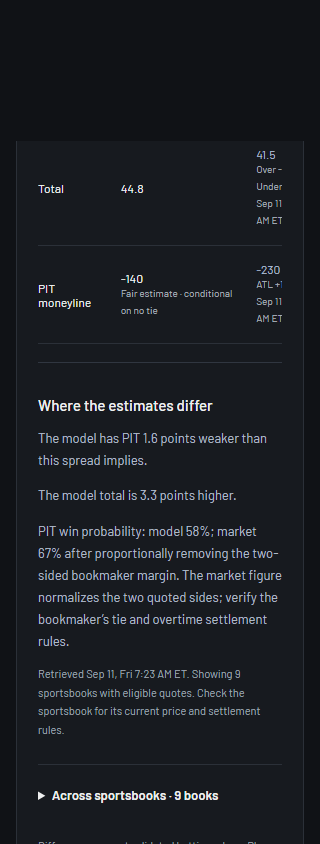
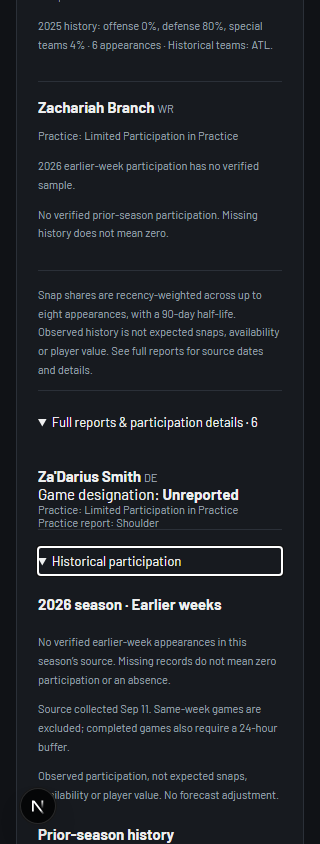
Summarize reported personnel designations and verified participation

Changed region(s): [[0.0938, 0.1232, 0.9062, 1.0], [0.125, 0.0, 0.8438, 0.0616], [0.8125, 0.8626, 0.8438, 0.8934]]

diff --git a/src/components/personnel-briefing.tsx b/src/components/personnel-briefing.tsx
@@ -1,0 +1,44 @@
+import React from 'react';
+import historical from '../../data/player-usage.json';
+import current from '../../data/season-participation.json';
+import { groupPersonnel } from '../lib/personnel-briefing';
+import { usageForPlayer, hasUsageIdentityConflict } from '../lib/player-usage';
+import { seasonParticipation } from '../lib/season-participation';
+import type { PersonnelSnapshot, PlayerReport } from '../lib/personnel';
+import { pct, date } from '../lib/teams';
+
+function ParticipationFact({snapshot, player, sharedEmpty}: {snapshot: PersonnelSnapshot; player: PlayerReport; sharedEmpty: boolean}) {
+  if (hasUsageIdentityConflict(historical, snapshot, player)) return <p className="fine">Identity unresolved · participation withheld.</p>;
+  const season = seasonParticipation(current, snapshot, player);
+  const prior = usageForPlayer(historical, snapshot, player);
+  const leading = prior ? Object.entries({offense:prior.shares.offense_pct, defense:prior.shares.defense_pct, 'special teams':prior.shares.st_pct}).sort((a,b)=>b[1]-a[1])[0] : null;
+  return <>
+    {!sharedEmpty && <p className="fine">{season?.shares
+      ? `${player.season} earlier weeks: offense ${pct(season.shares.offense)}, defense ${pct(season.shares.defense)}, special teams ${pct(season.shares.specialTeams)} · ${season.appearances} appearances (${season.currentTeamAppearances} current team, ${season.formerTeamAppearances} former teams).`
+      : `${player.season} earlier-week participation ${season ? 'has no verified sample' : 'is not verified'}.`}</p>}
+    {season?.shares && <p className="fine">{season.retained ? 'Retained source collected' : 'Source collected'} {date(season.sourceRetrievedAt)}.</p>}
+    {!season?.shares && prior && leading && <p className="fine">{prior.season} highest snap share: {leading[0]} {pct(leading[1])} · {prior.appearances} appearances · Teams: {prior.historicalTeams.join(', ')}.</p>}
+    {!season?.shares && !prior && <p className="fine">No verified prior-season participation. Missing history does not mean zero.</p>}
+  </>;
+}
+
+export function PersonnelBriefing({snapshot, players}: {snapshot: PersonnelSnapshot; players: PlayerReport[]}) {
+  const sharedEmpty = players.length > 0 && players.every(player => {
+    const evidence = seasonParticipation(current, snapshot, player);
+    return evidence !== null && evidence.shares === null;
+  });
+  return <div className="personnel-briefing">
+    {sharedEmpty && <p className="fine">No verified {players[0].season} earlier-week sample for these players. Prior-season history is shown separately; missing games do not mean zero participation.</p>}
+    {groupPersonnel(players).map(group => <section key={group.label}>
+      <h4>{group.label} <span className="muted">· {group.players.length}</span></h4>
+      {group.label === 'No game designation' && <p className="fine">Game availability is unreported. Practice information is separate.</p>}
+      <ul className="personnel-list">{group.players.map(player => <li key={player.playerId}>
+        <strong>{player.name}</strong> <span className="fine">{player.position}</span>
+        {group.label === 'Other game designations' && <p className="fine">Game designation: {player.reportStatus}</p>}
+        {group.label === 'No game designation' && <p className="fine">Practice: {player.practiceStatus ?? 'Unreported'}</p>}
+        <ParticipationFact snapshot={snapshot} player={player} sharedEmpty={sharedEmpty} />
+      </li>)}</ul>
+    </section>)}
+    <p className="fine">Snap shares are recency-weighted across up to eight appearances, with a 90-day half-life. Observed history is not expected snaps, availability or player value. See full reports for source dates and details.</p>
+  </div>;
+}

diff --git a/tests/personnel-briefing.test.ts b/tests/personnel-briefing.test.ts
@@ -1,0 +1,29 @@
+import { test } from 'node:test';
+import assert from 'node:assert/strict';
+import { groupPersonnel } from '../src/lib/personnel-briefing';
+import type { PlayerReport } from '../src/lib/personnel';
+import { createElement } from 'react';
+import { renderToStaticMarkup } from 'react-dom/server';
+import { PersonnelBriefing } from '../src/components/personnel-briefing';
+
+test('briefing preserves every report without turning practice into availability', () => {
+  const statuses = [null, 'Questionable', 'Out', 'Doubtful', 'Other'];
+  const players = statuses.map((reportStatus, i) => ({playerId:String(i), reportStatus, practiceStatus:'Did Not Participate'} as PlayerReport));
+  const groups = groupPersonnel(players);
+  assert.deepEqual(groups.map(g=>g.label), ['Reported out', 'Reported doubtful', 'Reported questionable', 'Other game designations', 'No game designation']);
+  assert.deepEqual(groups.flatMap(g=>g.players).map(p=>p.playerId).sort(), players.map(p=>p.playerId).sort());
+  assert.equal(groups.at(-1)!.players[0].reportStatus, null);
+  assert.equal(groupPersonnel([]).length, 0);
+});
+
+test('rendered briefing keeps unavailable identity evidence visible for every designation', () => {
+  const players = ['Out', 'Doubtful', 'Questionable', null].map((reportStatus, i) => ({
+    playerId:String(i), name:`Report ${i}`, position:'CB', team:'PIT', season:2026, type:'REG', week:1,
+    reportStatus, practiceStatus:'Did Not Participate', reportInjury:null, practiceInjury:null, practiceSecondaryInjury:null,
+  }));
+  const snapshot = {status:'available', sourceHash:'a'.repeat(64), retrievedAt:'2026-09-11T00:00:00Z', assetUpdatedAt:'2026-09-11T00:00:00Z', players};
+  const html = renderToStaticMarkup(createElement(PersonnelBriefing,{snapshot,players}));
+  for (const player of players) assert.ok(html.includes(player.name));
+  for (const label of ['Reported out', 'Reported doubtful', 'Reported questionable', 'Game availability is unreported', 'Missing history does not mean zero']) assert.ok(html.includes(label), label);
+  assert.equal((html.match(/earlier-week participation is not verified/g) ?? []).length, 4);
+});

diff --git a/src/components/personnel-panel.tsx b/src/components/personnel-panel.tsx
@@ -7,6 +7,7 @@ import { PersonnelExpiry } from "./personnel-expiry";
 import { PersonnelChangesPanel } from "./personnel-changes";
 import { QuarterbackContext } from "./quarterback-context";
 import { PlayerUsage } from "./player-usage";
+import { PersonnelBriefing } from './personnel-briefing';
 
 export function PersonnelPanel({ game }: { game: Game }) {
   const selected = personnelForGame(snapshot, game);
@@ -63,6 +64,10 @@ export function PersonnelPanel({ game }: { game: Game }) {
                       unknown.
                     </p>
                   ) : (
+                    <>
+                    <PersonnelBriefing snapshot={snapshot} players={players} />
+                    <details className="personnel-full-reports">
+                    <summary>Full reports & participation details · {players.length}</summary>
                     <ul className="personnel-list">
                       {players.map((player) => (
                         <li key={player.playerId}>
@@ -98,6 +103,8 @@ export function PersonnelPanel({ game }: { game: Game }) {
                         </li>
                       ))}
                     </ul>
+                    </details>
+                    </>
                   )}
                 </div>
               );

diff --git a/src/lib/personnel-briefing.ts b/src/lib/personnel-briefing.ts
@@ -1,0 +1,11 @@
+import type { PlayerReport } from './personnel';
+
+export function groupPersonnel(players: PlayerReport[]) {
+  const labels = ['Reported out', 'Reported doubtful', 'Reported questionable', 'Other game designations', 'No game designation'];
+  const groups = labels.map(label => ({label, players: [] as PlayerReport[]}));
+  for (const player of players) {
+    const index = player.reportStatus === 'Out' ? 0 : player.reportStatus === 'Doubtful' ? 1 : player.reportStatus === 'Questionable' ? 2 : player.reportStatus ? 3 : 4;
+    groups[index].players.push(player);
+  }
+  return groups.filter(group => group.players.length);
+}

diff --git a/scripts/check_season_participation_ui.py b/scripts/check_season_participation_ui.py
@@ -24,6 +24,7 @@ with sync_playwright() as p:
             page.goto('http://localhost:3000/games/2026_01_ATL_PIT', wait_until='networkidle')
             decline = page.get_by_role('button', name='Decline', exact=True)
             if decline.is_visible(): decline.click()
+            page.locator('.personnel-full-reports').first.locator(':scope > summary').click()
             details = page.locator('details.player-usage').first
             details.locator('summary').focus()
             page.keyboard.press('Enter')
